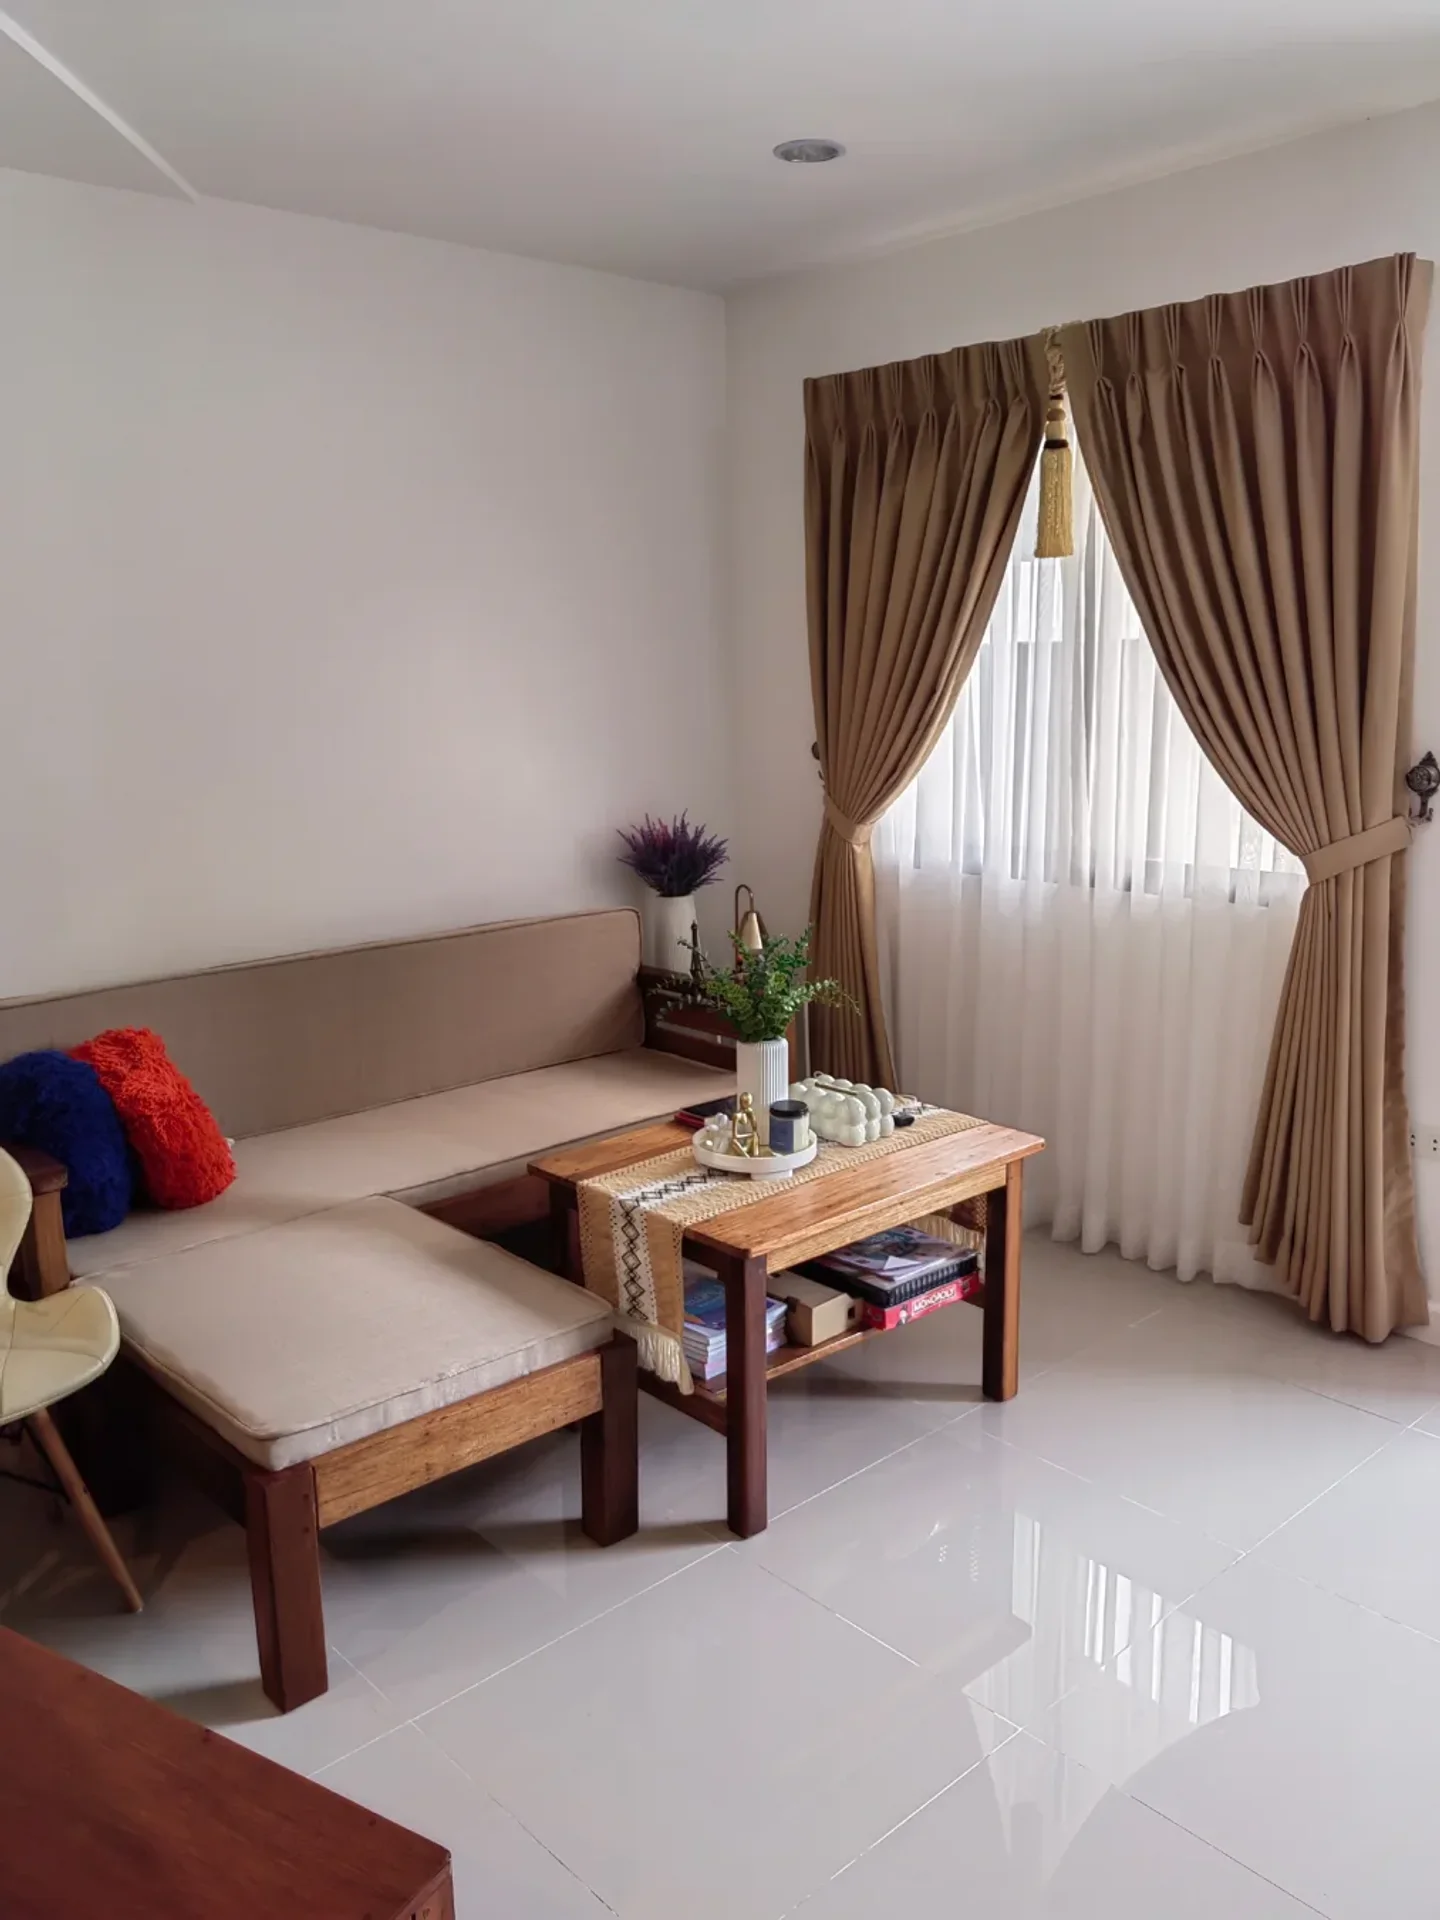
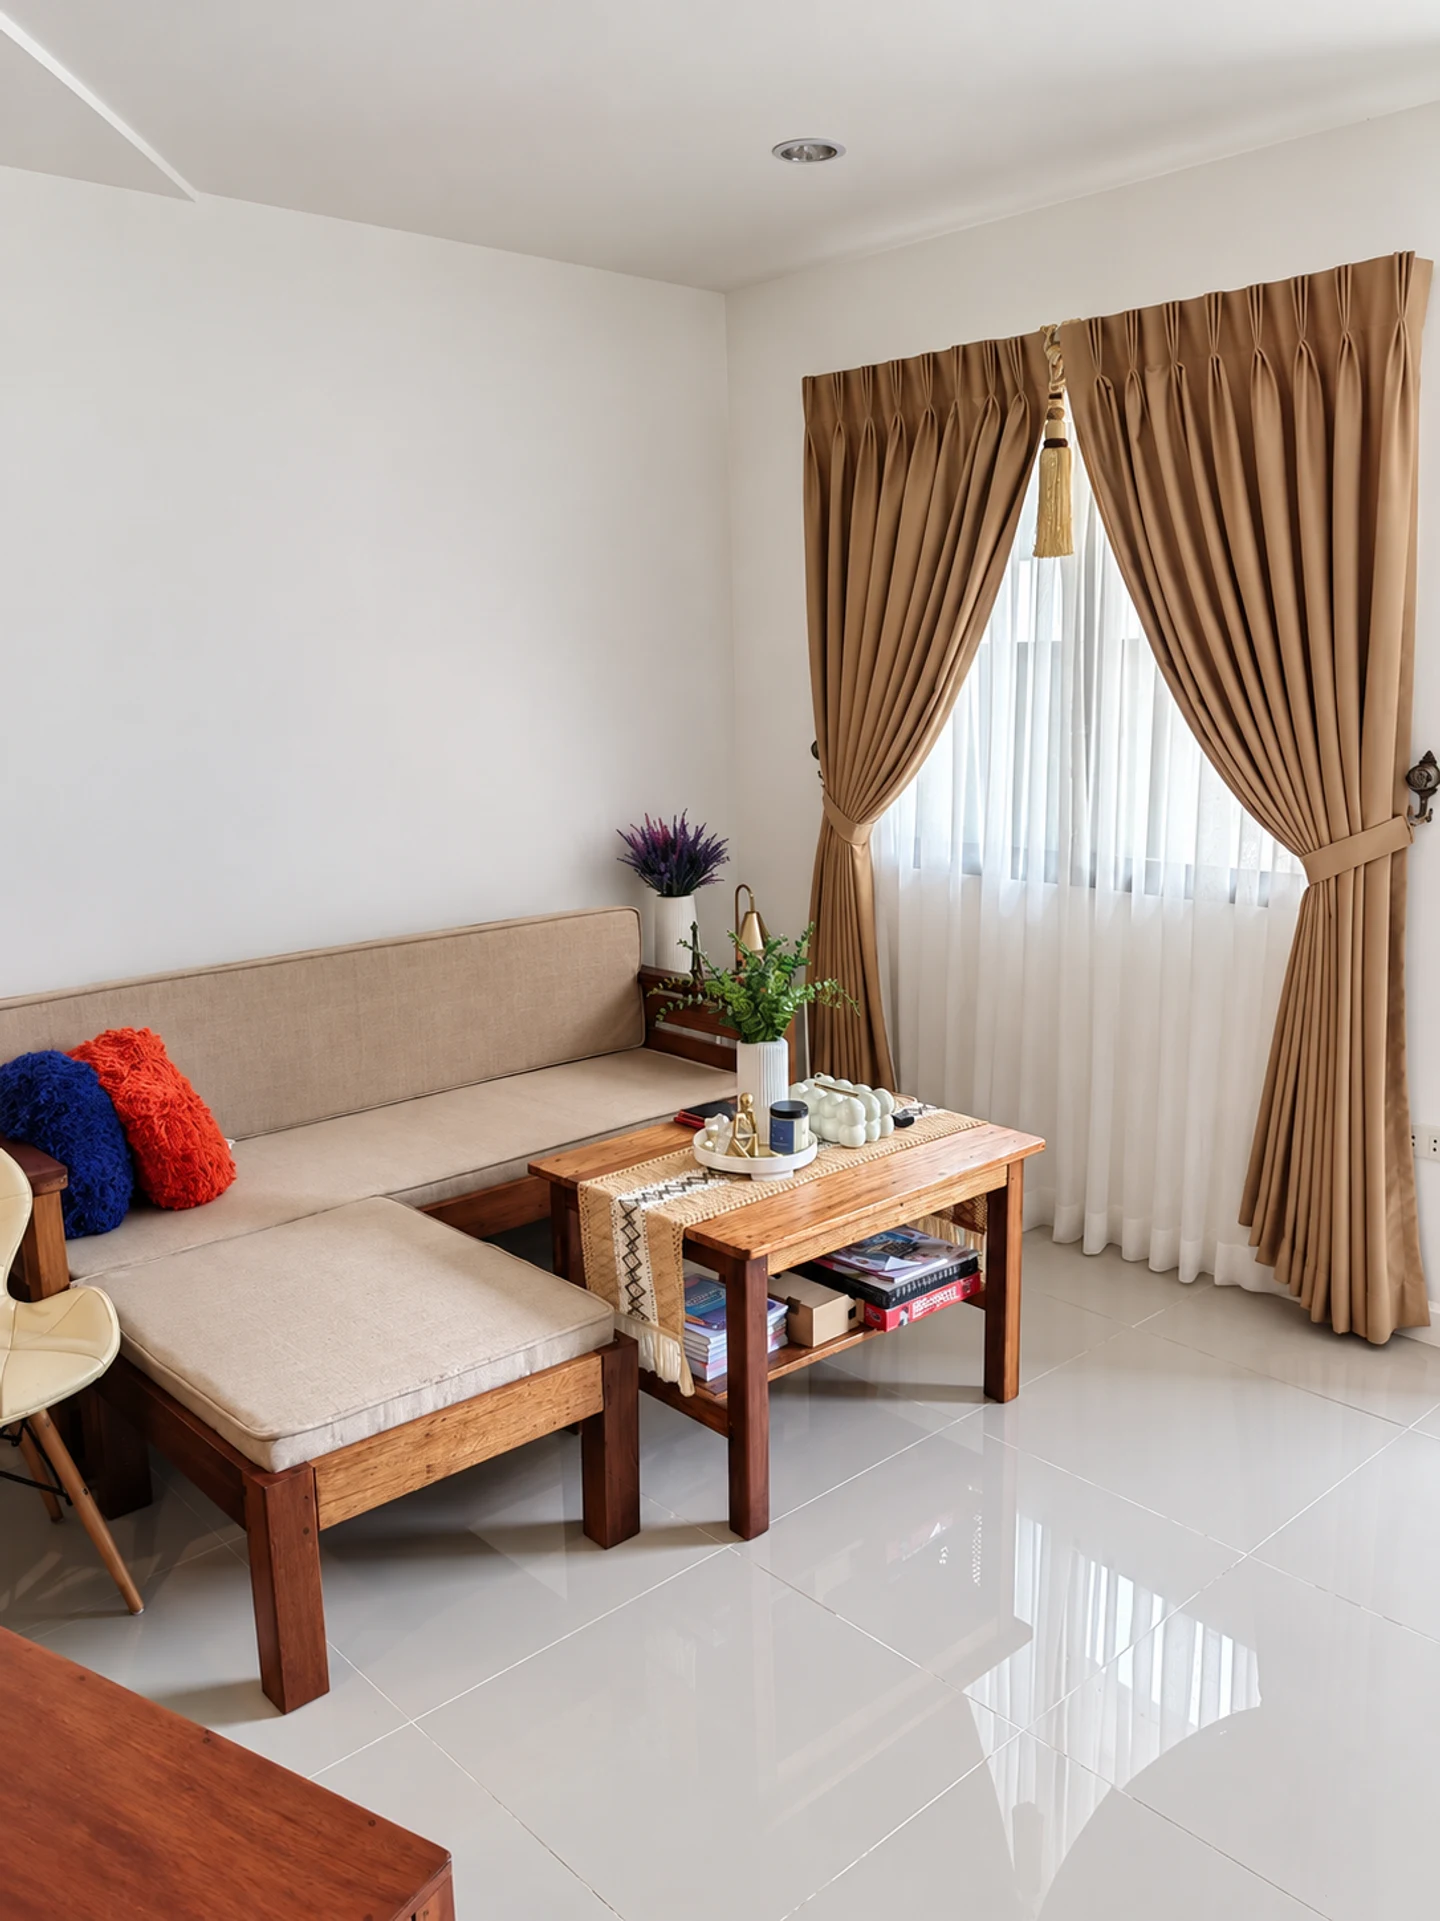
feat: refine motion fallbacks and showcase ten unique full-frame restored photographs

diff --git a/src/styles/global.css b/src/styles/global.css
@@ -1534,3 +1534,114 @@ html:not(.has-js) .mobile-contact {
     top: 0;
   }
 }
+
+/* A hidden floating action must also leave the keyboard focus order. */
+body.contact-visible .mobile-contact {
+  visibility: hidden;
+}
+@media (max-width: 700px) and (max-height: 720px) {
+  .showroom-pin,
+  .motion-enabled .showroom-pin,
+  .scene-static .showroom-pin {
+    min-height: 0;
+    height: calc(100svh - 87px);
+  }
+  .hero-intro,
+  .hero-story {
+    top: 24px;
+  }
+  .hero-intro h1,
+  .hero-story h2 {
+    font-size: clamp(34px, 8.4vw, 45px);
+    line-height: 1.06;
+  }
+  .hero-intro > p,
+  .hero-story p {
+    font-size: 12px;
+    line-height: 1.65;
+    margin-top: 10px;
+    max-width: 260px;
+  }
+  .hero-actions {
+    margin-top: 14px;
+    gap: 8px;
+  }
+  .hero-actions .button {
+    min-height: 44px;
+    padding: 12px 15px;
+    font-size: 11px;
+  }
+  .hero-actions .text-link {
+    display: none;
+  }
+  .room-controls {
+    bottom: 86px;
+    padding: 8px 10px;
+  }
+  .scroll-note {
+    display: none;
+  }
+}
+
+/* Static fallbacks follow their content instead of retaining cinematic scroll space. */
+.showroom:not(.motion-enabled) {
+  height: auto;
+  min-height: 0;
+}
+@media (max-width: 700px) and (max-height: 500px) {
+  .showroom.motion-enabled {
+    height: auto;
+    min-height: 0;
+  }
+  .showroom-pin,
+  .motion-enabled .showroom-pin,
+  .scene-static .showroom-pin {
+    position: relative;
+    top: 0;
+    height: 540px;
+    min-height: 540px;
+  }
+  .room-controls {
+    bottom: 28px;
+  }
+  .hero-bottom {
+    bottom: 10px;
+  }
+  .scene-caption,
+  .mobile-contact {
+    display: none;
+  }
+}
+
+/* Show complete installations: depth comes from the frame, never a cropped image. */
+.work-photo img,
+.detail-photo img,
+.approach-image img {
+  height: 100%;
+  width: 100%;
+  margin: 0;
+  object-fit: contain;
+  object-position: center;
+  transform: none;
+}
+.work-photo,
+.detail-photo {
+  background: #eeeee7;
+}
+.work-track,
+.detail-track {
+  padding-top: 18px;
+  padding-bottom: 26px;
+}
+.approach-image {
+  height: auto;
+  aspect-ratio: 4 / 5;
+  overflow: visible;
+}
+@media (prefers-reduced-motion: reduce) {
+  .work-slide,
+  .detail-slide,
+  .approach-image {
+    transform: none !important;
+  }
+}

diff --git a/src/components/Showroom.tsx b/src/components/Showroom.tsx
@@ -5,6 +5,8 @@ import gsap from 'gsap';
 import { ScrollTrigger } from 'gsap/ScrollTrigger';
 import Room, { type RoomState } from '../scene/Room';
 import type { Fabric, ViewMode } from '../scene/pose';
+import { resetStoryText } from '../scene/story';
+import { allowsMotion } from '../scripts/motion';
 
 class SceneBoundary extends Component<{ children: ReactNode; onError: () => void }, { failed: boolean }> {
   state = { failed: false };
@@ -24,7 +26,7 @@ export default function Showroom() {
     const motion = matchMedia('(prefers-reduced-motion: reduce)');
     const narrow = matchMedia('(max-width: 700px)');
     const connection = (navigator as Navigator & { connection?: { saveData?: boolean } }).connection;
-    const apply = () => { setEnabled(!motion.matches && !connection?.saveData); setMobile(narrow.matches); };
+    const apply = () => { setEnabled(allowsMotion(motion.matches, Boolean(connection?.saveData))); setMobile(narrow.matches); };
     apply();
     motion.addEventListener('change', apply);
     narrow.addEventListener('change', apply);
@@ -94,15 +96,18 @@ export default function Showroom() {
       handlers.push(() => button.removeEventListener('click', click));
     });
     ScrollTrigger.refresh();
+    // Hydration expands the cinematic section; keep a direct contact/work link aligned.
+    const anchor = document.getElementById(location.hash.slice(1));
+    if (anchor && !root.contains(anchor)) requestAnimationFrame(() => anchor.scrollIntoView({ behavior: 'instant', block: 'start' }));
     cleanup.current = () => {
       trigger.kill(); observer.disconnect(); handlers.forEach(dispose => dispose());
       document.removeEventListener('visibilitychange', setActive);
       canvas.removeEventListener('webglcontextlost', lost);
-      gsap.set([intro, story], { clearProps: 'all' });
-      intro.inert = false; story.setAttribute('aria-hidden', 'true');
+      resetStoryText(intro, story);
       root.classList.remove('scene-ready', 'motion-enabled');
       caption.textContent = 'Illustrative room';
       controls.setAttribute('hidden', '');
+      ScrollTrigger.refresh();
       cleanup.current = () => {};
     };
   }

diff --git a/src/data/projects.ts b/src/data/projects.ts
@@ -33,3 +33,16 @@ export const projects = [
 
 export const imageSet = (image: string) => [480, 960, 1440]
   .map(width => `/images/${image}-${width}.webp ${width}w`).join(', ');
+
+export const approachProject = {
+  image: 'stairwell-sheers',
+  alt: 'White pleated sheers following tall curved stairwell windows beside an ornamental railing.',
+  source: 'https://www.instagram.com/mac2din2houseofcurtain/p/DLpTAy5RTze/',
+};
+
+export const detailProjects = [
+  { image: 'neutral-bedroom', title: 'Layered for a restful room', type: 'Pleated drapes & sheers', alt: 'Pale pleated drapes tied to each side of white bedroom sheers behind a bed.', source: 'https://www.instagram.com/mac2din2houseofcurtain/p/DQBANWpE4mM/' },
+  { image: 'tailored-pleats', title: 'Gathered with care', type: 'Pleats & matching tiebacks', alt: 'Taupe pleated curtains with matching tiebacks over white sheers and a patterned window grille.', source: 'https://www.instagram.com/mac2din2houseofcurtain/p/DJVUkUwSA1A/' },
+  { image: 'single-panel', title: 'A tailored finishing touch', type: 'Single-panel curtain', alt: 'A taupe curtain panel gathered into a matching tieback at a tall narrow window.', source: 'https://www.instagram.com/mac2din2houseofcurtain/p/DJVUUZhyMHp/' },
+  { image: 'blue-blind', title: 'Control the daylight', type: 'Korean blinds', alt: 'A blue and white alternating sheer and solid Korean blind fitted within a recessed window.', source: 'https://www.instagram.com/mac2din2houseofcurtain/p/DJVRNDxSzDG/' },
+];

diff --git a/tests/story.test.ts b/tests/story.test.ts
@@ -1,0 +1,21 @@
+import test from 'node:test';
+import assert from 'node:assert/strict';
+import { JSDOM } from 'jsdom';
+
+test('scene fallback stops an active text fade before restoring headline and contact access', async () => {
+  const dom = new JSDOM('<div id="intro">Headline <a href="#contact">Contact</a></div><div id="story">Story</div>', { pretendToBeVisual: true });
+  Object.assign(globalThis, { window: dom.window, document: dom.window.document, getComputedStyle: dom.window.getComputedStyle.bind(dom.window) });
+  const { gsap } = await import('gsap');
+  const { resetStoryText } = await import('../src/scene/story.ts');
+  const intro = dom.window.document.querySelector<HTMLElement>('#intro')!;
+  const story = dom.window.document.querySelector<HTMLElement>('#story')!;
+  gsap.to(intro, { opacity: 0, y: -20, duration: 0.08 }).progress(0.25);
+  resetStoryText(intro, story);
+  await new Promise(resolve => setTimeout(resolve, 130));
+  assert.equal(intro.style.opacity, '');
+  assert.equal(intro.style.transform, '');
+  assert.equal(intro.inert, false);
+  assert.equal(story.getAttribute('aria-hidden'), 'true');
+  gsap.ticker.sleep();
+  dom.window.close();
+});

diff --git a/src/scripts/opening.ts b/src/scripts/opening.ts
@@ -5,7 +5,8 @@ export function initOpening(opening: HTMLElement, pageParts: HTMLElement[], bypa
     opening.hidden = true;
     pageParts.forEach(part => { part.inert = false; });
   };
-  if (bypass) { finish(); return finish; }
+  const alreadyFinished = opening.ownerDocument.defaultView?.getComputedStyle(opening).visibility === 'hidden';
+  if (bypass || alreadyFinished) { finish(); return finish; }
   pageParts.forEach(part => { part.inert = true; });
   opening.querySelector('button')?.addEventListener('click', finish, { once: true });
   opening.addEventListener('animationend', event => { if (event.target === opening) finish(); });

diff --git a/tests/projects.test.ts b/tests/projects.test.ts
@@ -1,0 +1,10 @@
+import test from 'node:test';
+import assert from 'node:assert/strict';
+import { projects, detailProjects, approachProject } from '../src/data/projects.ts';
+
+test('every installation image slot uses a distinct photo and a distinct source post', () => {
+  const all = [...projects, ...detailProjects, approachProject];
+  assert.equal(all.length, 10);
+  assert.equal(new Set(all.map(project => project.image)).size, all.length);
+  assert.equal(new Set(all.map(project => project.source)).size, all.length);
+});

diff --git a/tests/opening.test.ts b/tests/opening.test.ts
@@ -35,3 +35,12 @@ test('reduced motion or direct contact anchors bypass the intro entirely', () =>
   assert.equal(opening.hidden, true);
   assert.notEqual(main.inert, true);
 });
+
+test('late script loading never locks a page whose CSS curtain intro already finished', () => {
+  const { opening, main } = fixture();
+  opening.style.visibility = 'hidden';
+  const finish = initOpening(opening, [main], false);
+  const wasLocked = main.inert;
+  finish();
+  assert.equal(wasLocked, false);
+});

diff --git a/tests/motion.test.ts b/tests/motion.test.ts
@@ -1,0 +1,10 @@
+import test from 'node:test';
+import assert from 'node:assert/strict';
+import { allowsMotion } from '../src/scripts/motion.ts';
+
+test('Data Saver and reduced motion each disable the full cinematic experience', () => {
+  assert.equal(allowsMotion(false, true), false);
+  assert.equal(allowsMotion(true, false), false);
+  assert.equal(allowsMotion(true, true), false);
+  assert.equal(allowsMotion(false, false), true);
+});

diff --git a/src/scene/story.ts b/src/scene/story.ts
@@ -1,0 +1,8 @@
+import { gsap } from 'gsap';
+
+export function resetStoryText(intro: HTMLElement, story: HTMLElement) {
+  gsap.killTweensOf([intro, story]);
+  gsap.set([intro, story], { clearProps: 'all' });
+  intro.inert = false;
+  story.setAttribute('aria-hidden', 'true');
+}

diff --git a/src/scripts/motion.ts b/src/scripts/motion.ts
@@ -1,0 +1,3 @@
+export function allowsMotion(reducedMotion: boolean, saveData: boolean) {
+  return !reducedMotion && !saveData;
+}

diff --git a/docs/superpowers/plans/2026-10-30-showroom-build.md b/docs/superpowers/plans/2026-10-30-showroom-build.md
@@ -33,10 +33,10 @@ Files: `src/pages/index.astro`, `src/styles/global.css`, `src/components/Icon.as
 
 Interfaces: static contact anchors `#contact`, gallery `#works`, showroom `#showroom` / `#curtains`; image records contain `src`, `srcset`, `alt`, `title`, `type`, `source`.
 
-- [ ] Prepare actual logo and responsive local images; preserve originals.
-- [ ] Build complete static page with semantic headings, working anchors/contact links, project galleries, and static showroom fallback.
-- [ ] Run asset script and Astro check/build; inspect initial desktop/mobile render.
-- [ ] Commit the page and assets.
+- [x] Prepare actual logo and responsive local images; preserve originals.
+- [x] Build complete static page with semantic headings, working anchors/contact links, project galleries, and static showroom fallback.
+- [x] Run asset script and Astro check/build; inspect initial desktop/mobile render.
+- [x] Commit the page and assets.
 
 ### Task 2: 3D scene and progressive motion
 
@@ -44,11 +44,11 @@ Files: `src/components/Showroom.tsx`, `src/scene/Room.tsx`, `src/scene/curtain.t
 
 Interfaces: `getScenePose(progress, mode)` yields finite open/camera/light state; `sampleCurtain(u, v, openness, side)` defines physical drape geometry; `Showroom` enhances the scene host and shared static controls via DOM IDs.
 
-- [ ] Write scene tests proving gathering clears the center, curtain vertices/normals stay finite, progress clamps, and selected view changes the rendered curtain state. Run and observe the missing-module failure.
-- [ ] Implement geometry and pose functions; run unit tests to green.
-- [ ] Build the room, lighting, drapes, furniture, shared canvas, scroll coupling, material controls, and offscreen rendering pause.
-- [ ] Provide conservative loading/reduced-motion/WebGL-error fallbacks and test behavior in the browser.
-- [ ] Run tests and production build; commit.
+- [x] Write scene tests proving gathering clears the center, curtain vertices/normals stay finite, progress clamps, and selected view changes the rendered curtain state. Run and observe the missing-module failure.
+- [x] Implement geometry and pose functions; run unit tests to green.
+- [x] Build the room, lighting, drapes, furniture, shared canvas, scroll coupling, material controls, and offscreen rendering pause.
+- [x] Provide conservative loading/reduced-motion/WebGL-error fallbacks and test behavior in the browser.
+- [x] Run tests and production build; commit.
 
 ### Task 3: Galleries and delivery
 
@@ -56,8 +56,8 @@ Files: `src/scripts/carousel.ts`, `tests/carousel.test.ts`, `README.md`, existin
 
 Interface: `initCarousel(root)` binds the gallery's track, controls, count and pagination, returning disposal for page lifecycle cleanup.
 
-- [ ] Write real-DOM tests for next/previous movement, first/last disabled state, empty/single-item behavior, and manual scroll count. Observe failure before implementation.
-- [ ] Implement accessible gallery controls and viewport-relative slide selection; keep native scroll as baseline.
-- [ ] Browser-check phone/desktop, reduced motion, no-JS, WebGL failure, anchors, material controls, and image delivery; resolve observed issues.
-- [ ] Run full suite, Astro check/build, design detector, and a fresh whole-change review. Fix material findings and verify.
-- [ ] Commit, leave local preview available, and report the result and any material limits.
+- [x] Write real-DOM tests for next/previous movement, first/last disabled state, empty/single-item behavior, and manual scroll count. Observe failure before implementation.
+- [x] Implement accessible gallery controls and viewport-relative slide selection; keep native scroll as baseline.
+- [x] Browser-check phone/desktop, reduced motion, no-JS, WebGL failure, anchors, material controls, and image delivery; resolve observed issues.
+- [x] Run full suite, Astro check/build, design detector, and a fresh whole-change review. Fix material findings and verify.
+- [x] Commit, leave local preview available, and report the result and any material limits.

diff --git a/assets/source/README.md b/assets/source/README.md
@@ -10,11 +10,16 @@ Retrieved on 2026-10-30 from visible assets on the business's public Instagram p
 | `blackout-and-sheer-living-room.webp` | https://www.instagram.com/mac2din2houseofcurtain/p/DbUmwycSXv3/ | Caption describes pleated blackout drapes with pleated sheers. |
 | `pleated-drapes-project.jpg` | https://www.instagram.com/mac2din2houseofcurtain/p/DR54aqXEzAU/ | Caption describes pleated drapes. Actual downloaded bytes are JPEG although the remote filename ended in .heic. 1200 × 1200. |
 | `korean-blinds-project.webp` | https://www.instagram.com/mac2din2houseofcurtain/p/DQ9FKxakwFv/ | Caption describes Korean blinds. |
+| `pleated-neutral-room.jpg` | https://www.instagram.com/mac2din2houseofcurtain/p/DQBANWpE4mM/ | Pale bedroom drapes and sheers, business watermark overlays in original. |
+| `pleated-sheer-room.jpg` | https://www.instagram.com/mac2din2houseofcurtain/p/DLpTAy5RTze/ | Pleated sheers on tall curved stairwell windows. |
+| `pleated-tieback-detail.jpg` | https://www.instagram.com/mac2din2houseofcurtain/p/DJVUkUwSA1A/ | Taupe drapes with matching tiebacks. |
+| `sfold-room.jpg` | https://www.instagram.com/mac2din2houseofcurtain/p/DJVUUZhyMHp/ | Business caption describes S-fold curtains; the selected image shows a single gathered curtain panel. |
+| `korean-bedroom.jpg` | https://www.instagram.com/mac2din2houseofcurtain/p/DJVRNDxSzDG/ | Blue Korean blind in a recessed window. |
 
-All five images were visually reviewed. Caption only what can be verified; do not infer locations, client names, dates, or measured light-blocking performance. Source URLs are provenance; the website uses local optimized assets.
+All ten images and their restored derivatives were visually reviewed. Caption only what can be verified; do not infer locations, client names, dates, or measured light-blocking performance. Source URLs are provenance; the website uses local optimized assets.
 
 ## Authorized website derivatives
 
-The user subsequently asked to remove the Mac2Din2 watermarks. `assets/retouched/classic-room.png` and `assets/retouched/tall-room.png` are image-tool edits of the two watermarked originals, inspected against the source and used for all website sizes and detail crops. Reconstruction under the watermark is retouched image content; these are not untouched sensor originals. The other three selected photographs had no visible Mac2Din2 watermarks.
+The user subsequently asked for watermark removal, consistent high visual quality, no repeated images, and full compositions. All ten files in `assets/retouched/` are image-tool restoration derivatives, inspected against source and used for every website size. Watermarks in the classic room, tall room and neutral bedroom were removed. Reconstruction under marks and restored details are retouched content; these are not untouched sensor originals. The ten photo IDs in `src/data/projects.ts` refer to ten distinct source posts, and every site photo slot uses one ID once. Images are not used as repeated detail crops.
 
 `assets/brand/logo-restored.png` is a conservative image-tool restoration of the actual logo. The original roof, MD mark, wording, and gold/black identity are preserved. Web derivatives are generated into `public/images/`.
